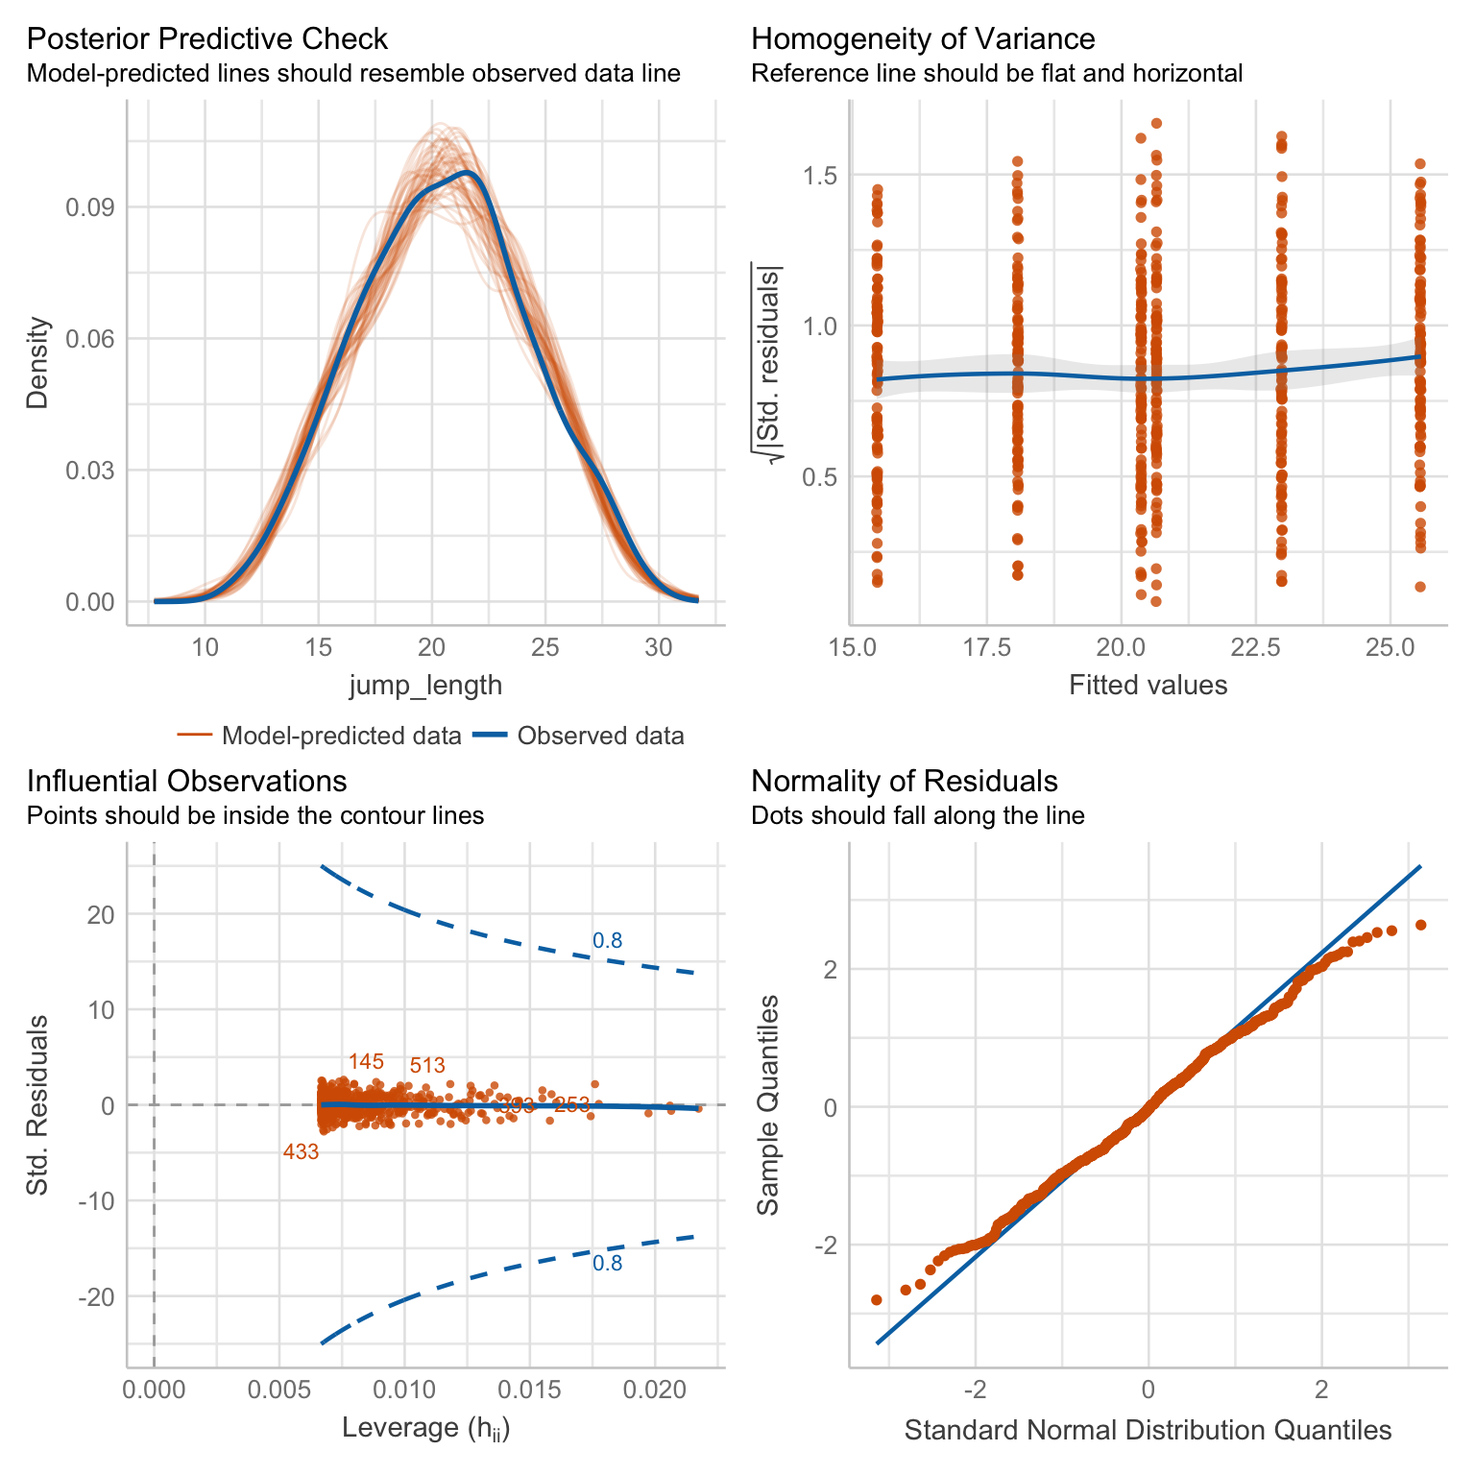
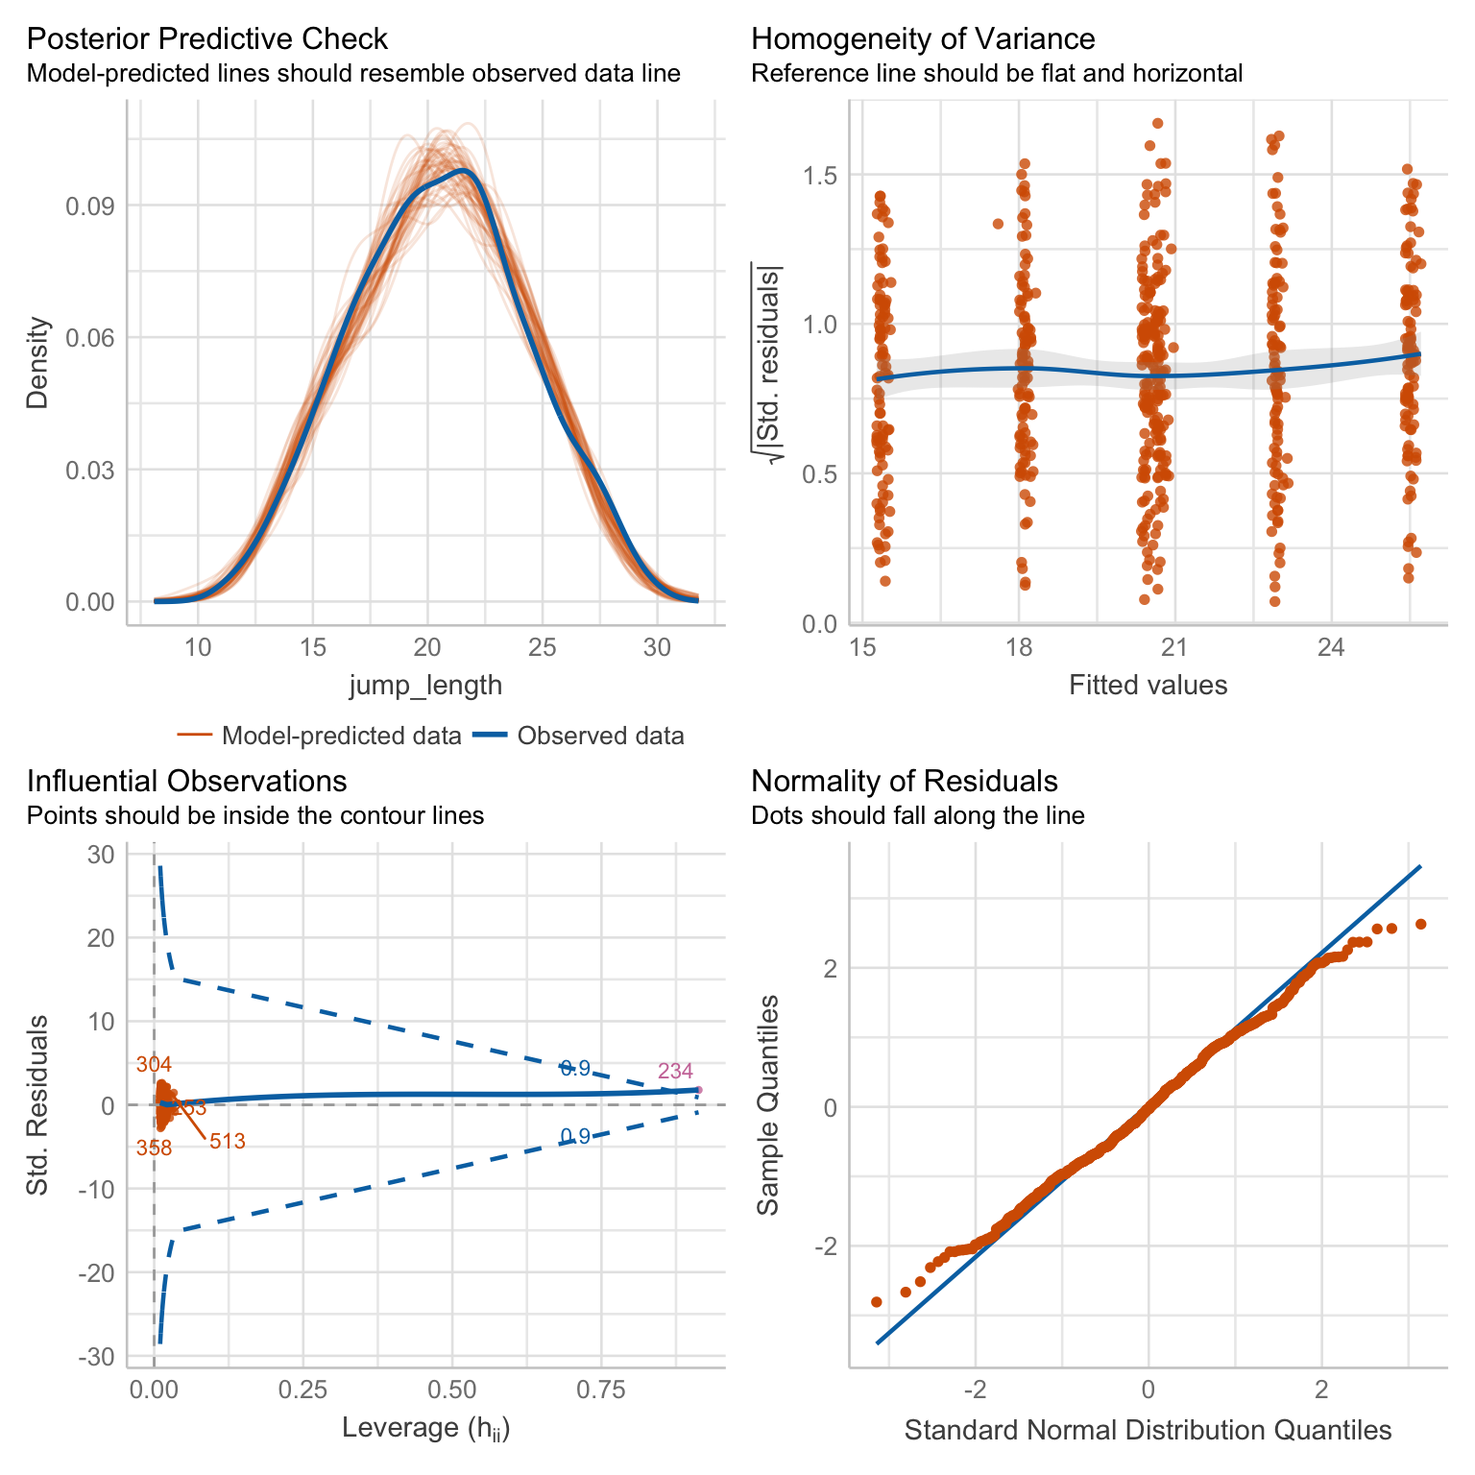
updated text and format

diff --git a/docs/stat-modeling-gaussian.html b/docs/stat-modeling-gaussian.html
@@ -478,7 +478,7 @@ code span.wa { color: #60a0b0; font-weight: bold; font-style: italic; } /* Warni
 </header><div class="cell">
 
 </div>
-<p><em>Version vom September 23, 2022 um 19:03:28</em></p>
+<p><em>Version vom September 26, 2022 um 10:51:35</em></p>
 <div class="quarto-figure quarto-figure-center">
 <figure class="figure"><p><img src="images/caution.png" class="img-fluid figure-img" style="width:50.0%"></p>
 </figure>
@@ -498,7 +498,7 @@ code span.wa { color: #60a0b0; font-weight: bold; font-style: italic; } /* Warni
 <p>Am Ende des Kapitels findest du nochmal den gesamten R Code in einem Rutsch zum selber durchführen oder aber kopieren.</p>
 </section><section id="daten" class="level2" data-number="37.2"><h2 data-number="37.2" class="anchored" data-anchor-id="daten">
 <span class="header-section-number">37.2</span> Daten</h2>
-<p>Wir wollen uns erszmal mit einem einfachen Datenbeispiel beschäftigen. Wir brauchen dafür den Datensatz <code>flea_dog_cat_length_weight.xlsx</code>. In einer simplen linearen Regression schauen wir uns den Zusammenhang zwischen einem <span class="math inline">\(y\)</span> und einem <span class="math inline">\(x_1\)</span> an. Daher wählen wir aus dem Datensatz <code>flea_dog_cat_length_weight.xlsx</code> die beiden Spalten <code>jump_length</code> und <code>weight</code>. Wir wollen nun feststellen, ob es einen Zusammenhang zwischen der Sprungweite in [cm] und dem Flohgewicht in [mg] gibt. In dem Datensatz finden wir 400 Flöhe, wir wollen uns aber nur die ersten sieben Zeilen des Datensatzes zuerst anschauen.</p>
+<p>Wir wollen uns erstmal mit einem einfachen Datenbeispiel beschäftigen. Wir brauchen dafür den Datensatz <code>flea_dog_cat_length_weight.xlsx</code>. In einer simplen linearen Regression schauen wir uns den Zusammenhang zwischen einem <span class="math inline">\(y\)</span> und einem <span class="math inline">\(x_1\)</span> an. Daher wählen wir aus dem Datensatz <code>flea_dog_cat_length_weight.xlsx</code> die beiden Spalten <code>jump_length</code> und <code>weight</code>. Wir wollen nun feststellen, ob es einen Zusammenhang zwischen der Sprungweite in [cm] und dem Flohgewicht in [mg] gibt. In dem Datensatz finden wir 400 Flöhe, wir wollen uns aber nur die ersten sieben Zeilen des Datensatzes zuerst anschauen.</p>
 <div class="cell">
 <div class="sourceCode" id="cb2"><pre class="downlit sourceCode r code-with-copy"><code class="sourceCode R"><span><span class="va">gaussian_tbl</span> <span class="op">&lt;-</span> <span class="fu">read_csv2</span><span class="op">(</span><span class="st">"data/flea_dog_cat_length_weight.csv"</span><span class="op">)</span> <span class="op">%&gt;%</span></span>
 <span>  <span class="fu">mutate</span><span class="op">(</span>animal <span class="op">=</span> <span class="fu">as_factor</span><span class="op">(</span><span class="va">animal</span><span class="op">)</span>,</span>
@@ -631,7 +631,9 @@ code span.wa { color: #60a0b0; font-weight: bold; font-style: italic; } /* Warni
 </section><section id="fit-des-modells" class="level2" data-number="37.3"><h2 data-number="37.3" class="anchored" data-anchor-id="fit-des-modells">
 <span class="header-section-number">37.3</span> Fit des Modells</h2>
 <div class="cell">
-<div class="sourceCode" id="cb3"><pre class="downlit sourceCode r code-with-copy"><code class="sourceCode R"><span><span class="va">gaussian_fit</span> <span class="op">&lt;-</span> <span class="fu"><a href="https://rdrr.io/r/stats/lm.html">lm</a></span><span class="op">(</span><span class="va">jump_length</span> <span class="op">~</span> <span class="va">animal</span> <span class="op">+</span> <span class="va">sex</span> <span class="op">+</span> <span class="va">weight</span>, data <span class="op">=</span> <span class="va">gaussian_tbl</span><span class="op">)</span></span></code><button title="In die Zwischenablage kopieren" class="code-copy-button"><i class="bi"></i></button></pre></div>
+<div class="sourceCode" id="cb3"><pre class="downlit sourceCode r code-with-copy"><code class="sourceCode R"><span><span class="va">gaussian_fit</span> <span class="op">&lt;-</span> <span class="fu"><a href="https://rdrr.io/r/stats/lm.html">lm</a></span><span class="op">(</span><span class="va">jump_length</span> <span class="op">~</span> <span class="va">animal</span> <span class="op">+</span> <span class="va">sex</span> <span class="op">+</span> <span class="va">animal</span><span class="op">:</span><span class="va">sex</span> <span class="op">+</span></span>
+<span>                                 <span class="va">weight</span> <span class="op">+</span> <span class="va">flea_count</span> <span class="op">+</span> <span class="va">hatch_time</span>, </span>
+<span>                   data <span class="op">=</span> <span class="va">gaussian_tbl</span><span class="op">)</span></span></code><button title="In die Zwischenablage kopieren" class="code-copy-button"><i class="bi"></i></button></pre></div>
 </div>
 </section><section id="performance-des-modells" class="level2" data-number="37.4"><h2 data-number="37.4" class="anchored" data-anchor-id="performance-des-modells">
 <span class="header-section-number">37.4</span> Performance des Modells</h2>
@@ -639,14 +641,14 @@ code span.wa { color: #60a0b0; font-weight: bold; font-style: italic; } /* Warni
 <div class="sourceCode" id="cb4"><pre class="downlit sourceCode r code-with-copy"><code class="sourceCode R"><span><span class="fu">r2</span><span class="op">(</span><span class="va">gaussian_fit</span><span class="op">)</span></span></code><button title="In die Zwischenablage kopieren" class="code-copy-button"><i class="bi"></i></button></pre></div>
 <div class="cell-output cell-output-stdout">
 <pre><code># R2 for Linear Regression
-       R2: 0.739
-  adj. R2: 0.737</code></pre>
+       R2: 0.740
+  adj. R2: 0.736</code></pre>
 </div>
 </div>
 <div class="cell">
 <div class="sourceCode" id="cb6"><pre class="downlit sourceCode r code-with-copy"><code class="sourceCode R"><span><span class="fu">check_heteroscedasticity</span><span class="op">(</span><span class="va">gaussian_fit</span><span class="op">)</span></span></code><button title="In die Zwischenablage kopieren" class="code-copy-button"><i class="bi"></i></button></pre></div>
 <div class="cell-output cell-output-stdout">
-<pre><code>OK: Error variance appears to be homoscedastic (p = 0.186).</code></pre>
+<pre><code>OK: Error variance appears to be homoscedastic (p = 0.181).</code></pre>
 </div>
 </div>
 <div class="cell" data-layout-align="center">
@@ -663,16 +665,21 @@ code span.wa { color: #60a0b0; font-weight: bold; font-style: italic; } /* Warni
 <span class="header-section-number">37.5</span> Interpretation des Modells</h2>
 <div class="cell">
 <div class="sourceCode" id="cb9"><pre class="downlit sourceCode r code-with-copy"><code class="sourceCode R"><span><span class="va">gaussian_fit</span> <span class="op">%&gt;%</span> </span>
-<span>  <span class="va">tidy</span></span></code><button title="In die Zwischenablage kopieren" class="code-copy-button"><i class="bi"></i></button></pre></div>
+<span>  <span class="va">tidy</span> <span class="op">%&gt;%</span> </span>
+<span>  <span class="fu">mutate</span><span class="op">(</span>p.value <span class="op">=</span> <span class="fu">pvalue</span><span class="op">(</span><span class="va">p.value</span><span class="op">)</span><span class="op">)</span></span></code><button title="In die Zwischenablage kopieren" class="code-copy-button"><i class="bi"></i></button></pre></div>
 <div class="cell-output cell-output-stdout">
-<pre><code># A tibble: 5 × 5
-  term        estimate std.error statistic   p.value
-  &lt;chr&gt;          &lt;dbl&gt;     &lt;dbl&gt;     &lt;dbl&gt;     &lt;dbl&gt;
-1 (Intercept) 15.4        0.588    26.2    2.40e-101
-2 animaldog    2.61       0.193    13.5    1.98e- 36
-3 animalfox    5.19       0.194    26.8    3.94e-104
-4 sexfemale    4.89       0.230    21.3    5.34e- 75
-5 weight       0.00595    0.0820    0.0726 9.42e-  1</code></pre>
+<pre><code># A tibble: 9 × 5
+  term                  estimate std.error statistic p.value
+  &lt;chr&gt;                    &lt;dbl&gt;     &lt;dbl&gt;     &lt;dbl&gt; &lt;chr&gt;  
+1 (Intercept)         15.3        0.613      24.9    &lt;0.001 
+2 animaldog            2.73       0.275       9.93   &lt;0.001 
+3 animalfox            5.33       0.276      19.3    &lt;0.001 
+4 sexfemale            5.07       0.331      15.3    &lt;0.001 
+5 weight               0.00536    0.0827      0.0648 0.948  
+6 flea_count           0.0513     0.0590      0.869  0.385  
+7 hatch_time          -0.0000334  0.000101   -0.332  0.740  
+8 animaldog:sexfemale -0.235      0.389      -0.606  0.545  
+9 animalfox:sexfemale -0.276      0.389      -0.709  0.479  </code></pre>
 </div>
 </div>
 </section><section id="wie-weiter" class="level2" data-number="37.6"><h2 data-number="37.6" class="anchored" data-anchor-id="wie-weiter">
@@ -680,9 +687,11 @@ code span.wa { color: #60a0b0; font-weight: bold; font-style: italic; } /* Warni
 <p><a href="stat-tests-posthoc.html"><span>Kapitel&nbsp;29</span></a></p>
 <div class="cell">
 <div class="sourceCode" id="cb11"><pre class="downlit sourceCode r code-with-copy"><code class="sourceCode R"><span><span class="va">emmean_res</span> <span class="op">&lt;-</span> <span class="va">gaussian_fit</span> <span class="op">%&gt;%</span> </span>
-<span>  <span class="fu">emmeans</span><span class="op">(</span><span class="op">~</span> <span class="va">animal</span>, adjust <span class="op">=</span> <span class="st">"bonferroni"</span><span class="op">)</span> </span>
-<span></span>
-<span><span class="va">emmean_res</span> <span class="op">%&gt;%</span> </span>
+<span>  <span class="fu">emmeans</span><span class="op">(</span><span class="op">~</span> <span class="va">animal</span>, adjust <span class="op">=</span> <span class="st">"bonferroni"</span><span class="op">)</span> </span></code><button title="In die Zwischenablage kopieren" class="code-copy-button"><i class="bi"></i></button></pre></div>
+<div class="cell-output cell-output-stderr">
+<pre><code>NOTE: Results may be misleading due to involvement in interactions</code></pre>
+</div>
+<div class="sourceCode" id="cb13"><pre class="downlit sourceCode r code-with-copy"><code class="sourceCode R"><span><span class="va">emmean_res</span> <span class="op">%&gt;%</span> </span>
 <span>  <span class="fu">contrast</span><span class="op">(</span>method <span class="op">=</span> <span class="st">"pairwise"</span><span class="op">)</span>  <span class="op">%&gt;%</span> </span>
 <span>  <span class="fu">tidy</span><span class="op">(</span>conf.int <span class="op">=</span> <span class="cn">TRUE</span><span class="op">)</span> <span class="op">%&gt;%</span> </span>
 <span>  <span class="fu">select</span><span class="op">(</span><span class="va">contrast</span>, <span class="va">estimate</span>, <span class="va">adj.p.value</span>, <span class="va">conf.low</span>, <span class="va">conf.high</span><span class="op">)</span> <span class="op">%&gt;%</span> </span>
@@ -693,10 +702,10 @@ code span.wa { color: #60a0b0; font-weight: bold; font-style: italic; } /* Warni
   contrast  estimate adj.p.value conf.low conf.high
   &lt;chr&gt;        &lt;dbl&gt; &lt;chr&gt;          &lt;dbl&gt;     &lt;dbl&gt;
 1 cat - dog    -2.61 &lt;0.001         -3.07     -2.16
-2 cat - fox    -5.19 &lt;0.001         -5.64     -4.73
+2 cat - fox    -5.19 &lt;0.001         -5.65     -4.73
 3 dog - fox    -2.58 &lt;0.001         -3.03     -2.12</code></pre>
 </div>
-<div class="sourceCode" id="cb13"><pre class="downlit sourceCode r code-with-copy"><code class="sourceCode R"><span><span class="va">emmean_res</span> <span class="op">%&gt;%</span> </span>
+<div class="sourceCode" id="cb15"><pre class="downlit sourceCode r code-with-copy"><code class="sourceCode R"><span><span class="va">emmean_res</span> <span class="op">%&gt;%</span> </span>
 <span>  <span class="fu">cld</span><span class="op">(</span>adjust <span class="op">=</span> <span class="st">"tukey"</span>, Letters<span class="op">=</span><span class="va">letters</span>, details <span class="op">=</span> <span class="cn">TRUE</span><span class="op">)</span></span></code><button title="In die Zwischenablage kopieren" class="code-copy-button"><i class="bi"></i></button></pre></div>
 <div class="cell-output cell-output-stderr">
 <pre><code>Note: adjust = "tukey" was changed to "sidak"
@@ -705,9 +714,9 @@ because "tukey" is only appropriate for one set of pairwise comparisons</code></
 <div class="cell-output cell-output-stdout">
 <pre><code>$emmeans
  animal emmean    SE  df lower.CL upper.CL .group
- cat      17.9 0.137 595     17.6     18.2  a    
- dog      20.5 0.137 595     20.2     20.9   b   
- fox      23.1 0.137 595     22.8     23.4    c  
+ cat      17.9 0.137 591     17.6     18.2  a    
+ dog      20.5 0.137 591     20.2     20.9   b   
+ fox      23.1 0.138 591     22.8     23.4    c  
 
 Results are averaged over the levels of: sex 
 Confidence level used: 0.95 
@@ -720,9 +729,9 @@ NOTE: Compact letter displays can be misleading
 
 $comparisons
  contrast  estimate    SE  df t.ratio p.value
- dog - cat     2.61 0.193 595  13.502  &lt;.0001
- fox - cat     5.19 0.194 595  26.755  &lt;.0001
- fox - dog     2.58 0.194 595  13.284  &lt;.0001
+ dog - cat     2.61 0.194 591  13.458  &lt;.0001
+ fox - cat     5.19 0.194 591  26.700  &lt;.0001
+ fox - dog     2.58 0.195 591  13.207  &lt;.0001
 
 Results are averaged over the levels of: sex 
 P value adjustment: tukey method for comparing a family of 3 estimates </code></pre>

diff --git a/docs/stat-modeling-mixed.html b/docs/stat-modeling-mixed.html
@@ -382,7 +382,7 @@ code span.wa { color: #60a0b0; font-weight: bold; font-style: italic; } /* Warni
 </li>
         <li class="sidebar-item">
   <div class="sidebar-item-container"> 
-  <a href="./stat-modeling-gaussian.html" class="sidebar-item-text sidebar-link"><span class="chapter-number">37</span>&nbsp; <span class="chapter-title">Gaussian lineare Regression</span></a>
+  <a href="./stat-modeling-gaussian.html" class="sidebar-item-text sidebar-link"><span class="chapter-number">37</span>&nbsp; <span class="chapter-title">Gausian lineare Regression</span></a>
   </div>
 </li>
         <li class="sidebar-item">
@@ -476,7 +476,7 @@ code span.wa { color: #60a0b0; font-weight: bold; font-style: italic; } /* Warni
 </header><div class="cell">
 
 </div>
-<p><em>Version vom September 21, 2022 um 12:22:02</em></p>
+<p><em>Version vom September 26, 2022 um 11:00:15</em></p>
 <div class="quarto-figure quarto-figure-center">
 <figure class="figure"><p><img src="images/caution.png" class="img-fluid figure-img" style="width:50.0%"></p>
 </figure>
@@ -646,7 +646,7 @@ code span.wa { color: #60a0b0; font-weight: bold; font-style: italic; } /* Warni
 </div>
 </div>
 <p>Natürlich können wir uns hier noch weitere Abbildungen erstellen, aber hier soll es erstmal reichen. Wir sehen, dass der Testscore einer Normalverteilung folgt und dass die Varianzen vermutlich homogen sind, da die Histogramme ungefähr gleich breit sind. Ja, ein wenig unterscheiden sich die Verteilungen, aber so gravierend ist es erstmal nicht.</p>
-</section><section id="modellierung" class="level2" data-number="38.3"><h2 data-number="38.3" class="anchored" data-anchor-id="modellierung">
+</section><section id="modellierung" class="level2 page-columns page-full" data-number="38.3"><h2 data-number="38.3" class="anchored" data-anchor-id="modellierung">
 <span class="header-section-number">38.3</span> Modellierung</h2>
 <p>Simples Gaussian lineare Modell mit einem Faktor <span class="math inline">\(f_1\)</span>:</p>
 <p><span class="math display">\[
@@ -664,7 +664,7 @@ y \sim f_1 + 1|z_1
 <p><span class="math display">\[
 y \sim f_1 + 1|z_1/z_2
 \]</span></p>
-<div class="cell">
+<div class="cell column-page">
 <div class="sourceCode" id="cb5"><pre class="downlit sourceCode r code-with-copy"><code class="sourceCode R"><span><span class="va">lm_simple_fit</span> <span class="op">&lt;-</span> <span class="fu"><a href="https://rdrr.io/r/stats/lm.html">lm</a></span><span class="op">(</span><span class="va">test_score</span> <span class="op">~</span> <span class="va">body_length_cat</span>, data <span class="op">=</span> <span class="va">dragons_tbl</span><span class="op">)</span></span>
 <span></span>
 <span><span class="va">lm_simple_fit</span> <span class="op">%&gt;%</span> <span class="fu">model_parameters</span><span class="op">(</span><span class="op">)</span></span></code><button title="In die Zwischenablage kopieren" class="code-copy-button"><i class="bi"></i></button></pre></div>
@@ -678,7 +678,7 @@ body length cat [large]    |       32.50 | 4.55 | [23.56, 41.43] |   7.15 | &lt;
 body length cat [gigantic] |       29.32 | 5.20 | [19.10, 39.54] |   5.64 | &lt; .001</code></pre>
 </div>
 </div>
-<div class="cell">
+<div class="cell column-page">
 <div class="sourceCode" id="cb7"><pre class="downlit sourceCode r code-with-copy"><code class="sourceCode R"><span><span class="va">lm_mountain_fit</span> <span class="op">&lt;-</span> <span class="fu"><a href="https://rdrr.io/r/stats/lm.html">lm</a></span><span class="op">(</span><span class="va">test_score</span> <span class="op">~</span> <span class="va">body_length_cat</span> <span class="op">+</span> <span class="va">mountain_range</span>, data <span class="op">=</span> <span class="va">dragons_tbl</span><span class="op">)</span></span>
 <span><span class="va">lm_mountain_fit</span> <span class="op">%&gt;%</span> <span class="fu">model_parameters</span><span class="op">(</span><span class="op">)</span></span></code><button title="In die Zwischenablage kopieren" class="code-copy-button"><i class="bi"></i></button></pre></div>
 <div class="cell-output cell-output-stdout">
@@ -788,7 +788,7 @@ SD (Intercept: mountain_range) |       18.43 | 5.00 | [10.83, 31.36]
 SD (Residual)                  |       14.96 | 0.49 | [14.03, 15.95]</code></pre>
 </div>
 </div>
-<div class="cell">
+<div class="cell column-page">
 <div class="sourceCode" id="cb16"><pre class="downlit sourceCode r code-with-copy"><code class="sourceCode R"><span><span class="va">lmer_1_fit</span> <span class="op">%&gt;%</span> <span class="fu">model_performance</span><span class="op">(</span><span class="op">)</span></span></code><button title="In die Zwischenablage kopieren" class="code-copy-button"><i class="bi"></i></button></pre></div>
 <div class="cell-output cell-output-stdout">
 <pre><code># Indices of model performance
@@ -846,7 +846,7 @@ SD (Intercept: mountain_range)      |       18.10 | 5.04 | [10.49, 31.23]
 SD (Residual)                       |       14.44 | 0.48 | [13.53, 15.41]</code></pre>
 </div>
 </div>
-<div class="cell">
+<div class="cell column-page">
 <div class="sourceCode" id="cb22"><pre class="downlit sourceCode r code-with-copy"><code class="sourceCode R"><span><span class="va">lmer_2_fit</span> <span class="op">%&gt;%</span> <span class="fu">model_performance</span><span class="op">(</span><span class="op">)</span></span></code><button title="In die Zwischenablage kopieren" class="code-copy-button"><i class="bi"></i></button></pre></div>
 <div class="cell-output cell-output-stdout">
 <pre><code># Indices of model performance
@@ -885,7 +885,7 @@ lm_simple_fit   |      lm | 20.661 | 20.770 |    1.24e-67 |    3.78e-65 |       
 </div>
 </div>
 </div>
-<div class="cell">
+<div class="cell column-page">
 <div class="sourceCode" id="cb27"><pre class="downlit sourceCode r code-with-copy"><code class="sourceCode R"><span><span class="va">lmer_3_fit</span> <span class="op">&lt;-</span> <span class="fu">lmer</span><span class="op">(</span><span class="va">test_score</span> <span class="op">~</span> <span class="va">body_length_cat</span> <span class="op">+</span> <span class="op">(</span><span class="fl">1</span> <span class="op">|</span> <span class="va">mountain_range</span><span class="op">/</span><span class="va">site</span><span class="op">)</span>, data <span class="op">=</span> <span class="va">dragons_tbl</span><span class="op">)</span></span>
 <span><span class="va">lmer_3_fit</span> <span class="op">%&gt;%</span> <span class="fu">model_parameters</span><span class="op">(</span><span class="op">)</span></span></code><button title="In die Zwischenablage kopieren" class="code-copy-button"><i class="bi"></i></button></pre></div>
 <div class="cell-output cell-output-stdout">
@@ -1088,7 +1088,7 @@ window.document.addEventListener("DOMContentLoaded", function (event) {
 });
 </script><nav class="page-navigation"><div class="nav-page nav-page-previous">
       <a href="./stat-modeling-gaussian.html" class="pagination-link">
-        <i class="bi bi-arrow-left-short"></i> <span class="nav-page-text"><span class="chapter-number">37</span>&nbsp; <span class="chapter-title">Gaussian lineare Regression</span></span>
+        <i class="bi bi-arrow-left-short"></i> <span class="nav-page-text"><span class="chapter-number">37</span>&nbsp; <span class="chapter-title">Gausian lineare Regression</span></span>
       </a>          
   </div>
   <div class="nav-page nav-page-next">
